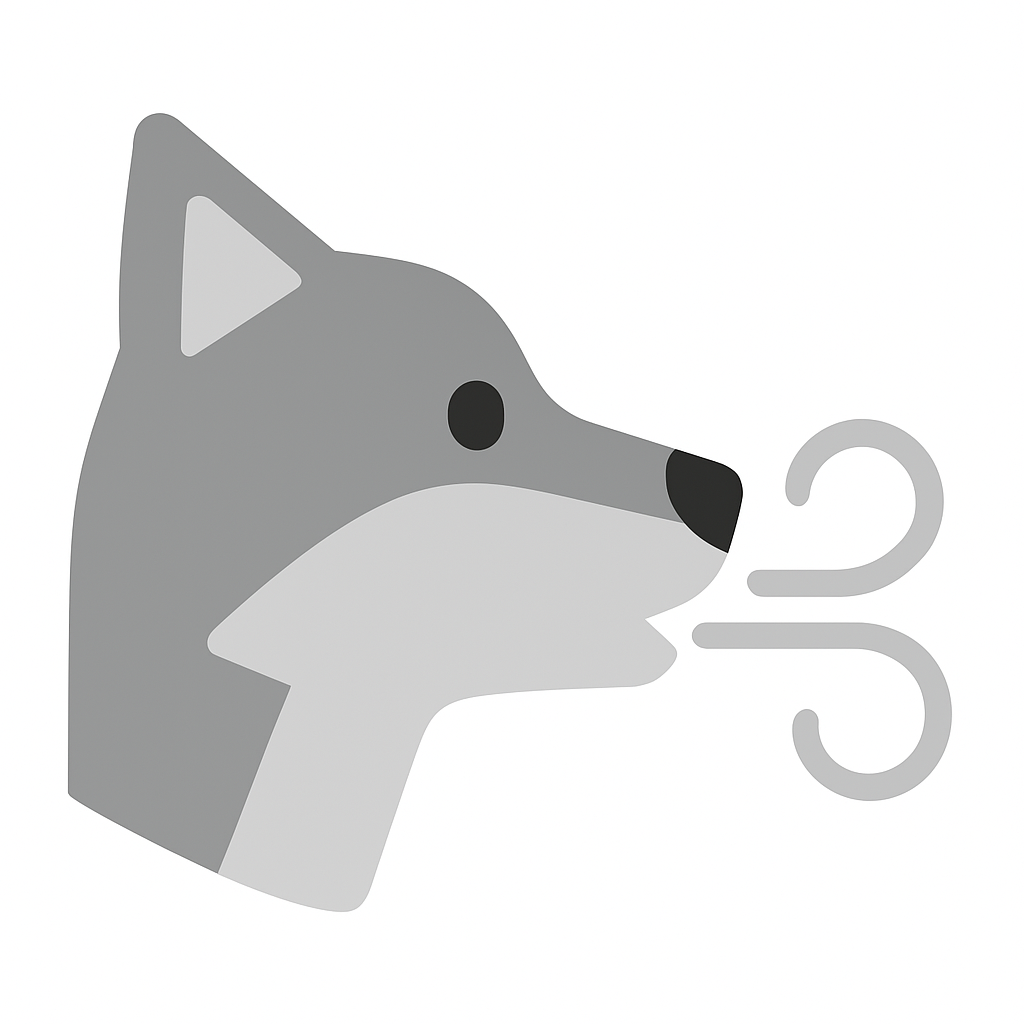
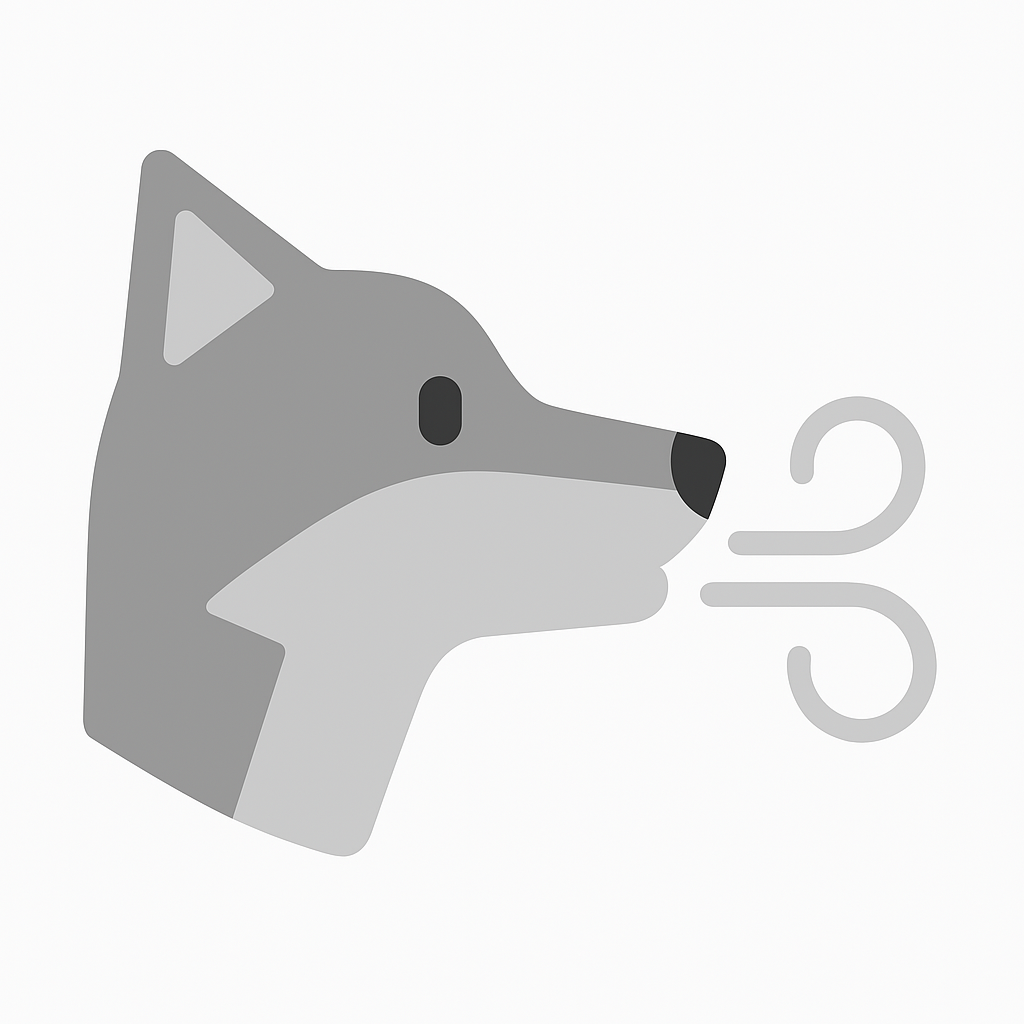
s

Changed region(s): [[0.0625, 0.0938, 0.9375, 0.9062], [0.1875, 0.5, 0.3438, 0.75], [0.2188, 0.3125, 0.25, 0.3438]]

diff --git a/app/templates/login.html b/app/templates/login.html
@@ -18,10 +18,12 @@
     </button>
   </form>
 
-  <div class="mt-6 text-center">
+  <div class="mt-6 text-center flex flex-col items-center">
     {% if attempts > 0 %}
-      <img src="/static/lobo_soprando_flat.png" alt="Lobo soprando" class="mx-auto w-20">
-      <div class="text-4xl mt-2">{{ "💨" * attempts }}</div>
+      <div class="relative">
+        <img src="/static/lobo_soprando_flat_final.png" alt="Lobo soprando" class="mx-auto w-20">
+        <div class="absolute top-6 left-full text-4xl pl-2">{{ "💨" * attempts }}</div>
+      </div>
     {% else %}
       <img src="/static/lobo_frontal_flat.png" alt="Lobo frontal" class="mx-auto w-20">
     {% endif %}
